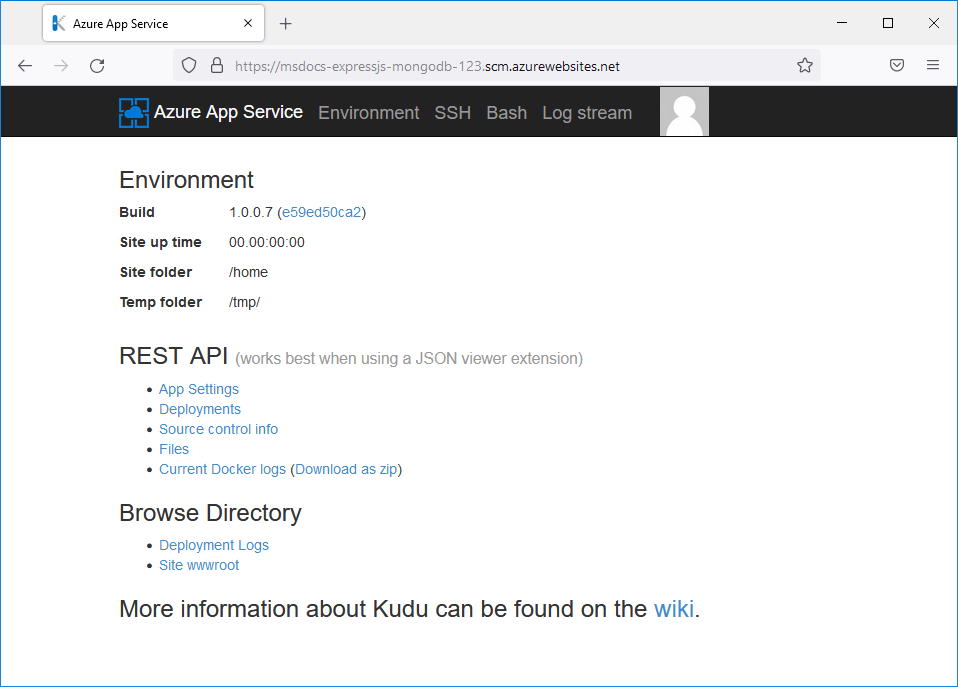
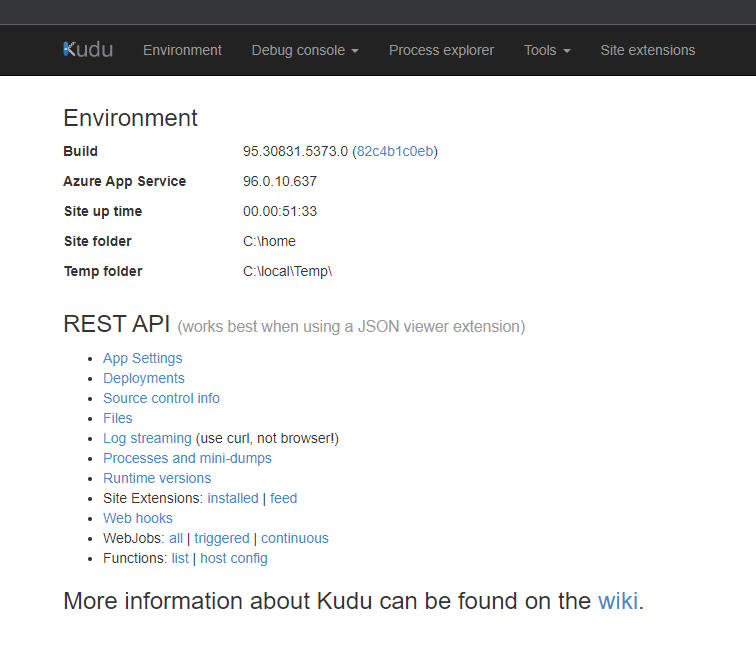
test

diff --git a/articles/ux-beta/dotnet-app-service-sql/azure-app-service-sql.md b/articles/ux-beta/dotnet-app-service-sql/azure-app-service-sql.md
@@ -246,13 +246,11 @@ After the migration completes, your Azure SQL database will have the correct sch
 Note: If you receive an error stating `Client with IP address xxx.xxx.xxx.xxx is not allowed to access the server`, that means the IP address you entered into your Azure firewall rule is incorrect. To fix this issue, update the Azure firewall rule with the IP address provided in the error message.
 
 
-
-
 ## 7 - Browse the Deployed Application and File Directory
 
 Navigate back to your web app in the browser. You can always get back to your site by clicking the **Browse** link at the top of the App Service overview page. If you refresh the page, you can now Create Todos and see them displayed on the home page. Congratulations!
 
-:::image type="content" source="../../media/app-success.png" alt-text="A screenshot showing the app successfully deployed to Azure." :::
+:::image type="content" source="./media/app-success.png" alt-text="A screenshot showing the app successfully deployed to Azure." :::
 
 Next, let's take a closer look at the deployed files of our app using a tool called Kudu.
 
@@ -264,9 +262,9 @@ To access Kudu, navigate to one of the following URLs. You'll need to sign into 
 - For apps deployed in Isolated service plans - `https://<app-name>.scm.<ase-name>.p.azurewebsites.net`
 From the main page in Kudu, you can access information about the application-hosting environment, app settings, deployments, and browse the files in the wwwroot directory.
 
-## 8 - Stream diagnostic logs
+:::image type="content" source="./media/kudu-main-page.png" alt-text="A screenshot showing the Kudu admin page." :::
 
-## 6 - Configure and view application logs
+## 8 - Configure and stream application logs
 
 Azure App Service captures all messages logged to the console to assist you in diagnosing issues with your application. The sample app outputs console log messages in each of its endpoints to demonstrate this capability. The contents of the App Service diagnostic logs can be reviewed in the Azure portal, VS Code, or using the Azure CLI.
 
